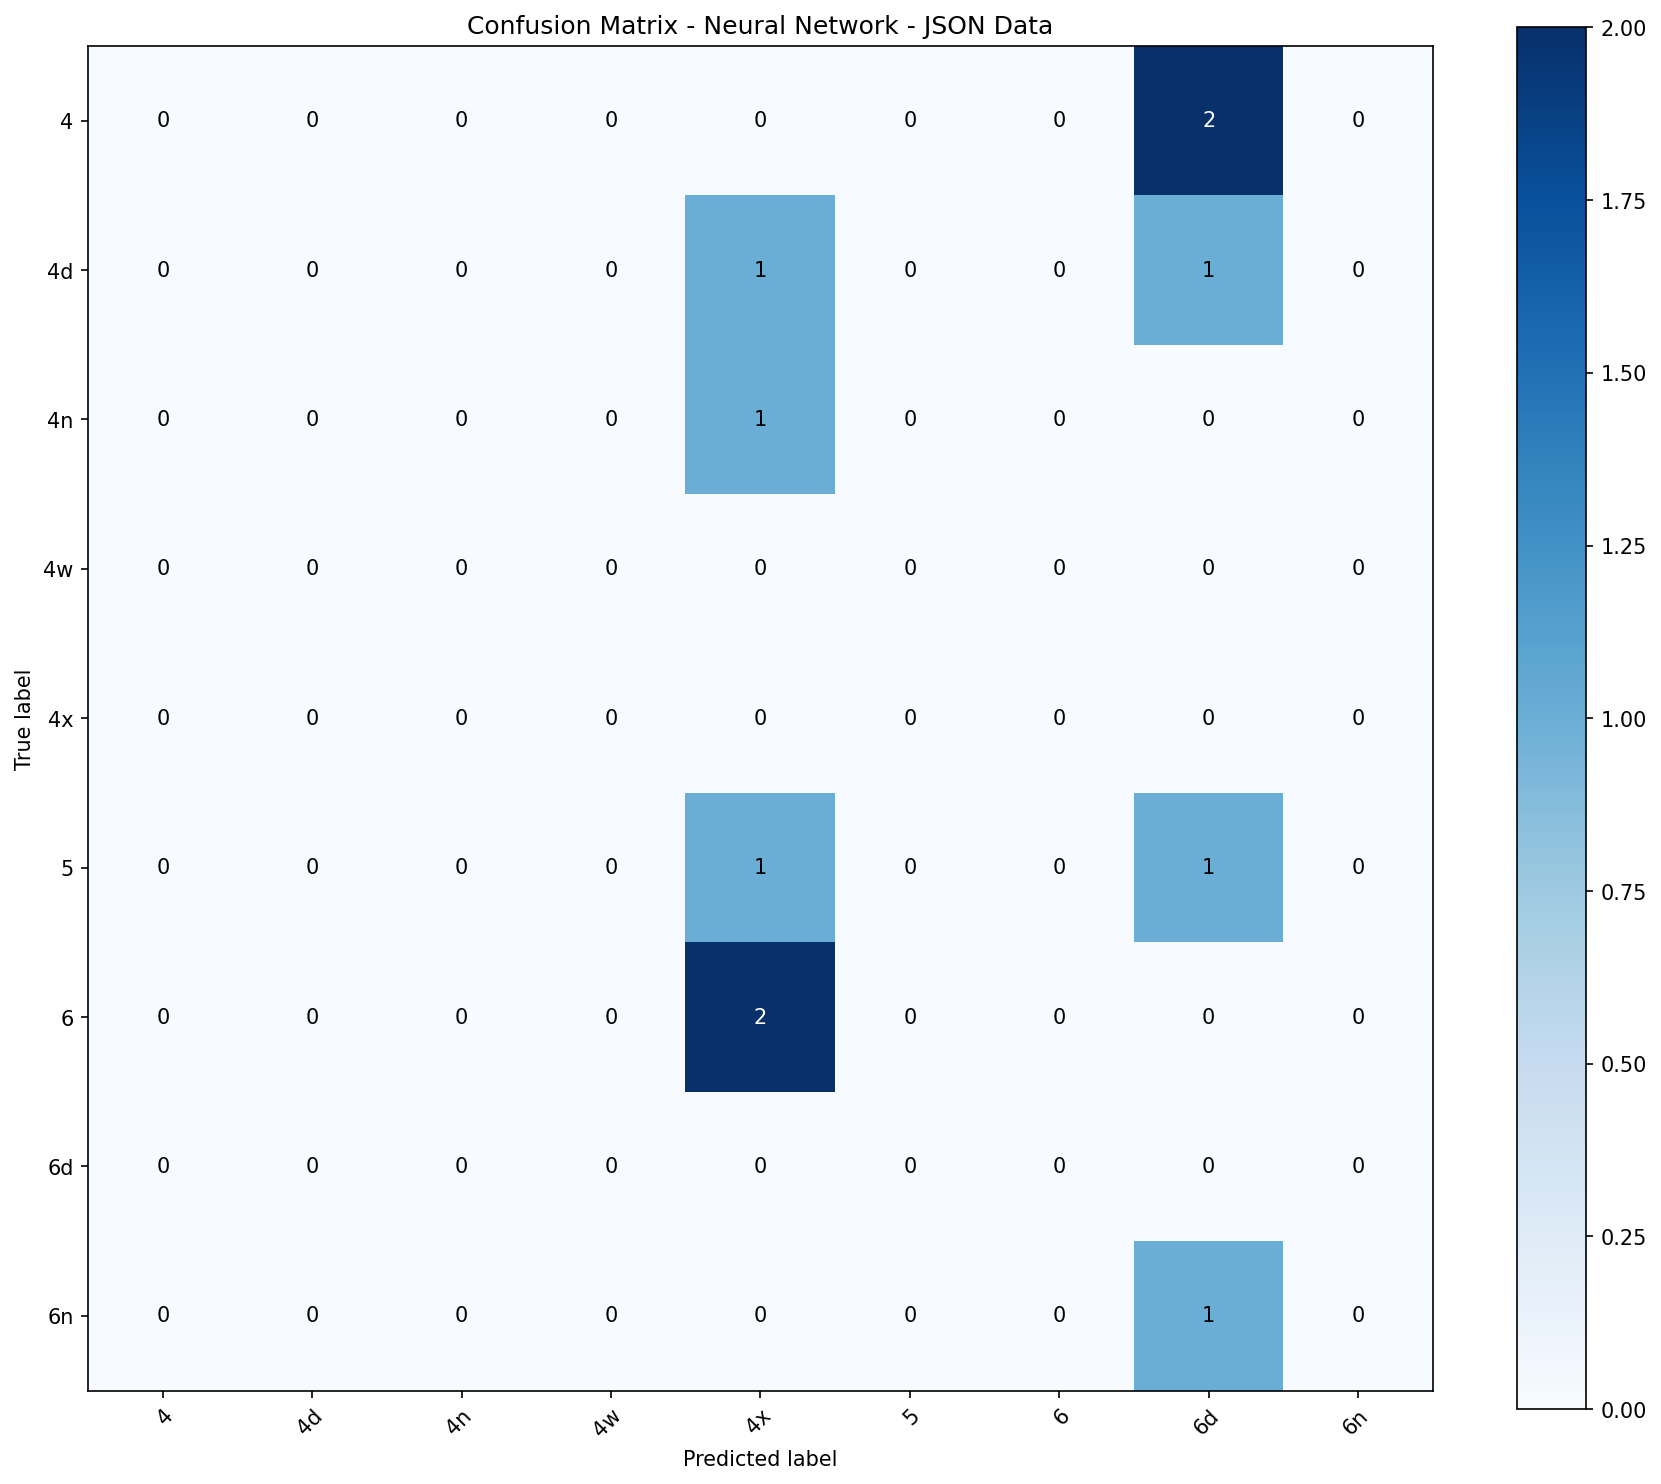
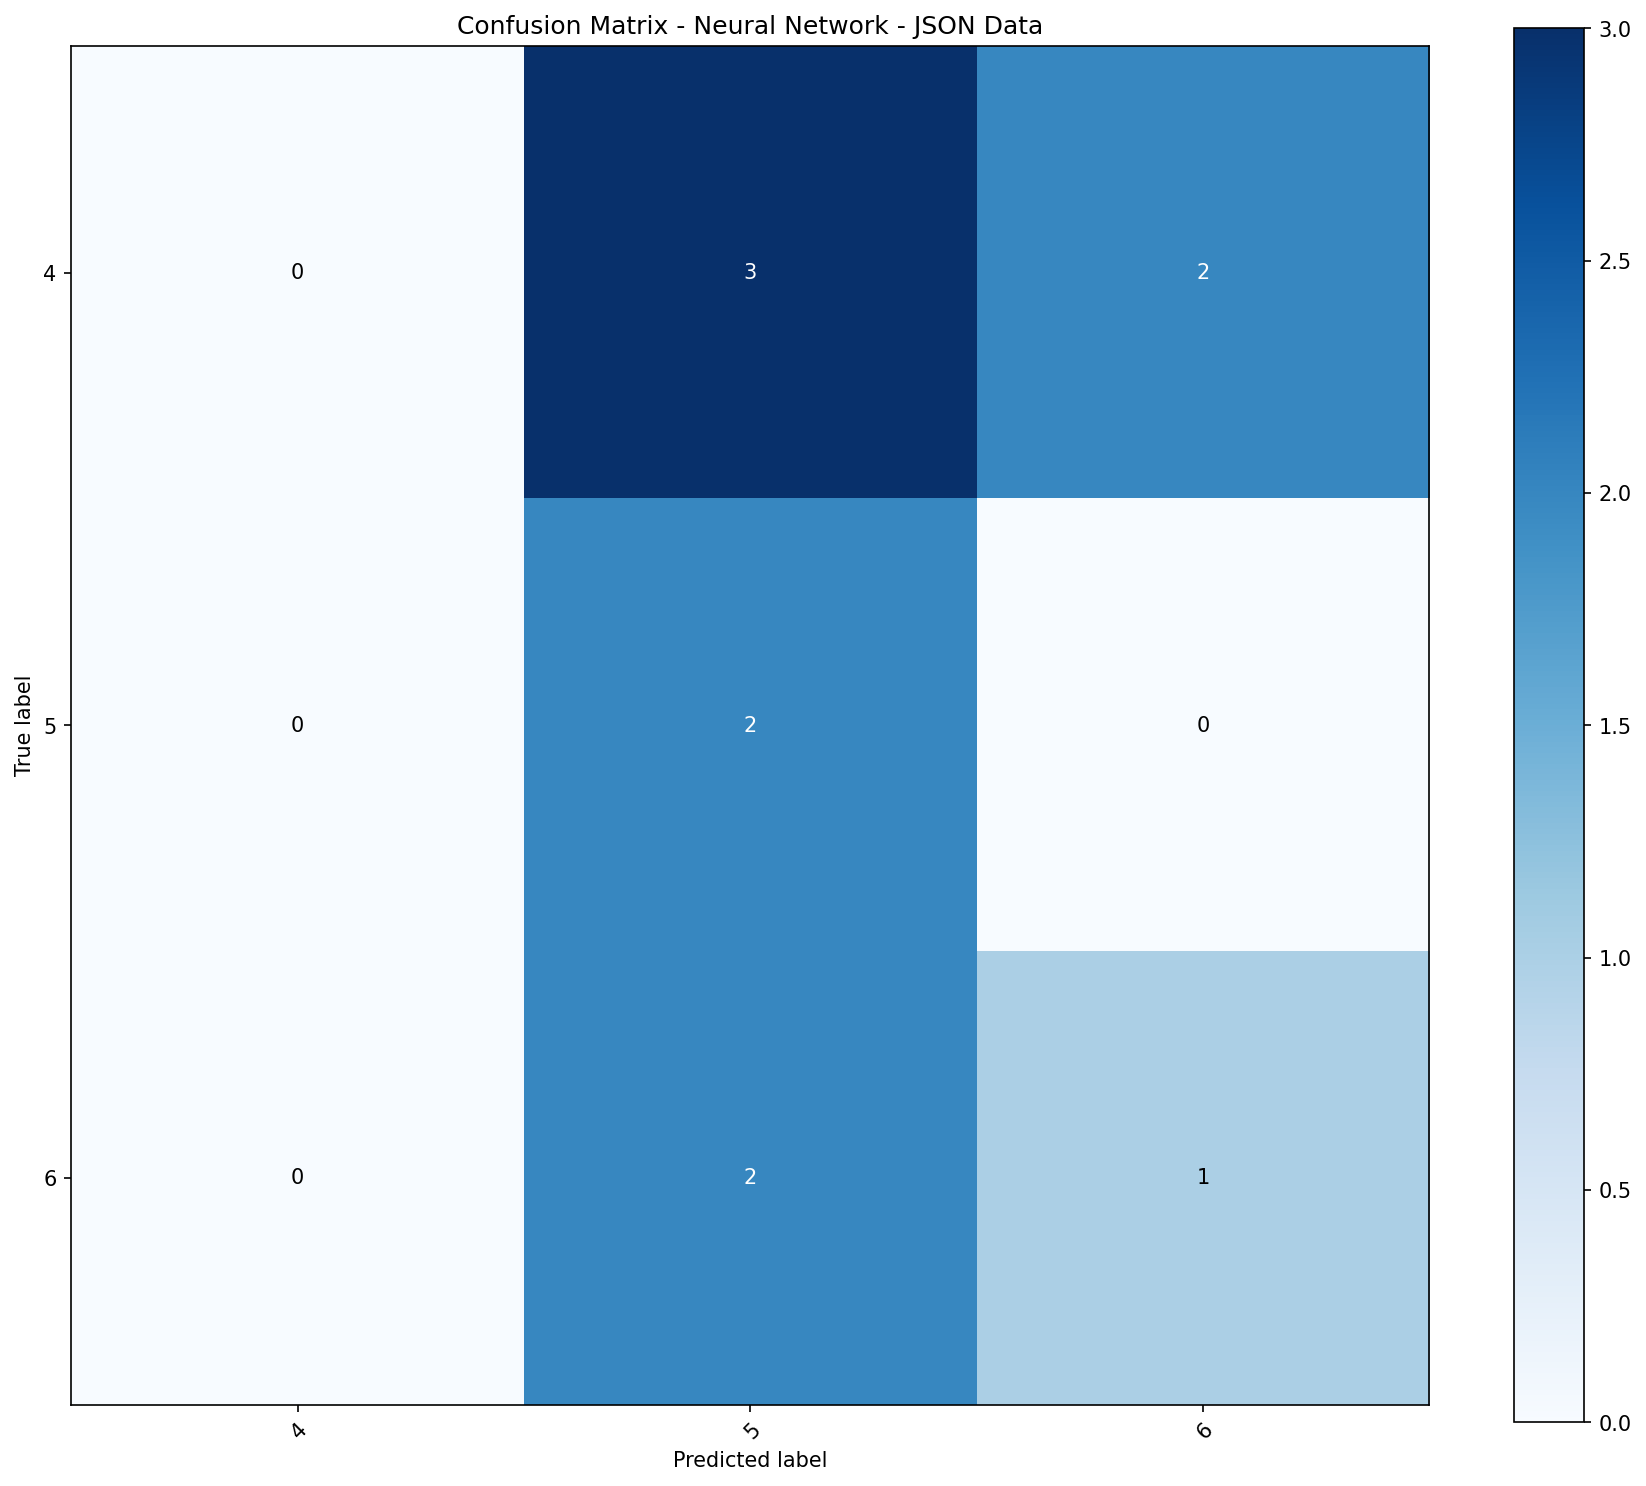
Changing base labels to map to 4, 5, 6

diff --git a/src/neuralnets/nn.py b/src/neuralnets/nn.py
@@ -364,36 +364,16 @@ def extract_base_number(label_str):
         return label_str[0]
     return label_str
 
-
-def compute_grouped_accuracy(predictions, true_labels, class_names):
+def map_to_base_label(label_str):
     """
-    Compute accuracy where predictions are correct if they match the base number.
-    E.g., "4d" predicted as "4" is correct, "6n" predicted as "6" is correct.
-    
-    Args:
-        predictions: Array of predicted class indices
-        true_labels: Array of true class indices
-        class_names: List of class name strings
-    
-    Returns:
-        Accuracy as a float
+    Map labels like '4d','4n','4x' -> '4', and '6d','6n' -> '6'.
+    Leaves '5' unchanged. Returns the string label.
     """
-    if len(predictions) == 0:
-        return 0.0
-    
-    correct = 0
-    for pred_idx, true_idx in zip(predictions, true_labels):
-        pred_label = class_names[pred_idx]
-        true_label = class_names[true_idx]
-        
-        pred_base = extract_base_number(pred_label)
-        true_base = extract_base_number(true_label)
-        
-        if pred_base == true_base:
-            correct += 1
-    
-    return correct / len(predictions)
-
+    if label_str.startswith('4'):
+        return '4'
+    if label_str.startswith('6'):
+        return '6'
+    return label_str  # e.g. "5"
 
 def one_hot_labels(labels, num_classes):
     one_hot_labels = np.zeros((labels.size, num_classes))
@@ -636,10 +616,8 @@ def train_and_evaluate(X_train, y_train, X_test, y_test, train_ids, test_ids,
     
     # Compute both exact and grouped accuracy
     train_accuracy_exact = compute_accuracy(train_output, y_train_onehot)
-    train_accuracy_grouped = compute_grouped_accuracy(train_predictions, y_train, class_names)
     
     print(f"Training Accuracy (Exact Match): {train_accuracy_exact:.4f}")
-    print(f"Training Accuracy (Grouped by Base Number): {train_accuracy_grouped:.4f}")
     
     # Per-class accuracy on training set
     print(f"\nPer-class accuracy (Training - {data_source_display}):")
@@ -650,8 +628,7 @@ def train_and_evaluate(X_train, y_train, X_test, y_test, train_ids, test_ids,
             # Grouped accuracy for this class
             class_preds = train_predictions[mask]
             class_true = y_train[mask]
-            class_acc_grouped = compute_grouped_accuracy(class_preds, class_true, class_names)
-            print(f"  {class_name}: Exact={class_acc_exact:.4f}, Grouped={class_acc_grouped:.4f} ({np.sum(mask)} samples)")
+            print(f"  {class_name}: Exact={class_acc_exact:.4f}, ({np.sum(mask)} samples)")
     
     # Evaluate on test set
     if len(X_test) > 0:
@@ -664,10 +641,8 @@ def train_and_evaluate(X_train, y_train, X_test, y_test, train_ids, test_ids,
         
         # Compute both exact and grouped accuracy
         test_accuracy_exact = compute_accuracy(test_output, y_test_onehot)
-        test_accuracy_grouped = compute_grouped_accuracy(test_predictions, y_test, class_names)
         
         print(f"Test Accuracy (Exact Match): {test_accuracy_exact:.4f}")
-        print(f"Test Accuracy (Grouped by Base Number): {test_accuracy_grouped:.4f}")
         
         # Save test predictions (matching logreg format)
         test_pred_path = output_dir / f'test_predictions_{data_source_name}.txt'
@@ -694,8 +669,7 @@ def train_and_evaluate(X_train, y_train, X_test, y_test, train_ids, test_ids,
                 # Grouped accuracy for this class
                 class_preds = test_predictions[mask]
                 class_true = y_test[mask]
-                class_acc_grouped = compute_grouped_accuracy(class_preds, class_true, class_names)
-                print(f"  {class_name}: Exact={class_acc_exact:.4f}, Grouped={class_acc_grouped:.4f} ({np.sum(mask)} samples)")
+                print(f"  {class_name}: Exact={class_acc_exact:.4f}, ({np.sum(mask)} samples)")
         
         # Save accuracy summary
         accuracy_summary_path = output_dir / f'neural_network_accuracy_summary_{data_source_name}.txt'
@@ -706,9 +680,7 @@ def train_and_evaluate(X_train, y_train, X_test, y_test, train_ids, test_ids,
             f.write(f"Activation Function: {activation_name}\n")
             f.write(f"Data Source: {data_source_display}\n")
             f.write(f"Training Accuracy (Exact Match): {train_accuracy_exact:.4f}\n")
-            f.write(f"Training Accuracy (Grouped by Base Number): {train_accuracy_grouped:.4f}\n")
             f.write(f"Test Accuracy (Exact Match): {test_accuracy_exact:.4f}\n")
-            f.write(f"Test Accuracy (Grouped by Base Number): {test_accuracy_grouped:.4f}\n\n")
             f.write("Per-class Test Accuracy:\n")
             for i, class_name in enumerate(class_names):
                 mask = y_test == i
@@ -716,11 +688,10 @@ def train_and_evaluate(X_train, y_train, X_test, y_test, train_ids, test_ids,
                     class_acc_exact = np.mean(test_predictions[mask] == y_test[mask])
                     class_preds = test_predictions[mask]
                     class_true = y_test[mask]
-                    class_acc_grouped = compute_grouped_accuracy(class_preds, class_true, class_names)
-                    f.write(f"  {class_name}: Exact={class_acc_exact:.4f}, Grouped={class_acc_grouped:.4f} ({np.sum(mask)} samples)\n")
+                    f.write(f"  {class_name}: Exact={class_acc_exact:.4f}, ({np.sum(mask)} samples)\n")
         print(f"Accuracy summary saved to {accuracy_summary_path}")
     
-    return params, train_accuracy_grouped, test_accuracy_grouped if len(X_test) > 0 else None
+    return params
 
 
 def main():
@@ -749,7 +720,7 @@ def main():
     output_dir.mkdir(parents=True, exist_ok=True)
     
     # Define class names
-    class_names = ['4', '4d', '4n', '4w', '4x', '5', '6', '6d', '6n']
+    class_names = ['4', '5', '6']
     num_classes = len(class_names)
     
     # Load labels
@@ -758,8 +729,11 @@ def main():
     print(f"Total samples in CSV: {len(df)}")
     
     # Split based on "Test Set" column
+    print("CSV columns:", df.columns.tolist())
     df_test = df[df['Test Set'] == 'Test'].copy()
     df_train = df[df['Test Set'] != 'Test'].copy()
+    #df_train['Serve Type'] = df_train['Serve Type'].apply(map_to_base_label)
+    df_test['Serve Result'] = df_test['Serve Result'].apply(map_to_base_label)
     
     print(f"Training samples in CSV: {len(df_train)}")
     print(f"Test samples in CSV: {len(df_test)}")
@@ -785,12 +759,14 @@ def main():
         return
     
     # Encode labels
+    y_train_json = [map_to_base_label(label) for label in y_train_json]
     y_train_json_enc = np.array([class_names.index(label) for label in y_train_json])
     if len(X_test_json) > 0:
+        y_test_json = [map_to_base_label(label) for label in y_test_json]
         y_test_json_enc = np.array([class_names.index(label) for label in y_test_json])
     else:
         y_test_json_enc = np.array([])
-    
+        
     # Normalize features
     print("\nNormalizing features...")
     mean_json = np.mean(X_train_json, axis=0)
